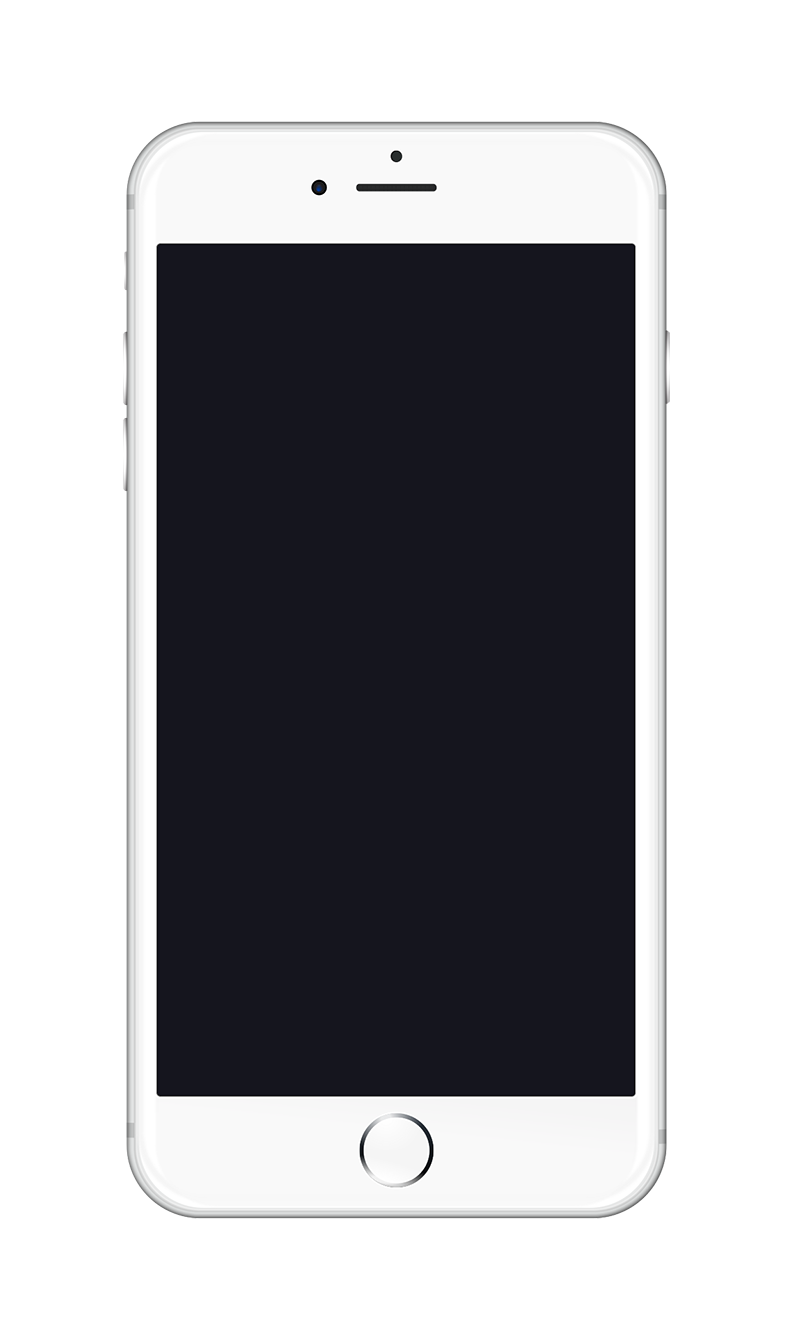
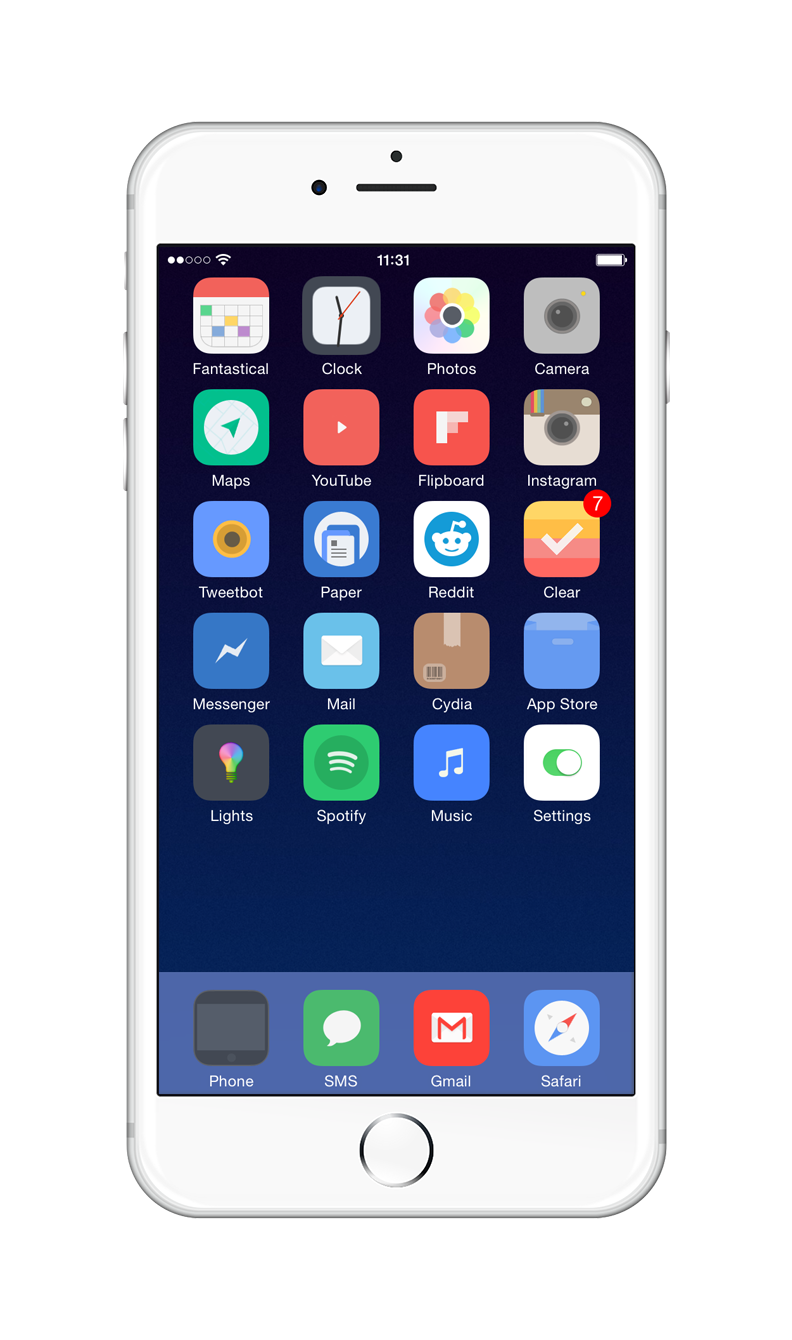
fixed iphone and added toggle for save

diff --git a/src/js/controllers/singleView.controller.js b/src/js/controllers/singleView.controller.js
@@ -13,6 +13,7 @@ function SingleView ($scope, $stateParams, FrameService, $state) {
   vm.blurToggle           = blurToggle;
   vm.loadingSwitch        = false;
   vm.isActive             = false;
+  vm.saveSwitch           = false;
   vm.logo                 = "./images/Blanks/logo.png";
   vm.background           = "./images/Blanks/blankmain.png";
   vm.screenshot           = "./images/Blanks/blankscreen.png";
@@ -78,8 +79,6 @@ function SingleView ($scope, $stateParams, FrameService, $state) {
 
         // Save Image
 
-
-
         function savePic () {
           vm.loadingSwitch = true;
           let reg = domtoimage.toBlob(document.getElementById('imageCont'))
@@ -90,6 +89,7 @@ function SingleView ($scope, $stateParams, FrameService, $state) {
                 vm.image = new_blob.url;
                 console.log(vm.image);
                 vm.loadingSwitch = false;
+                vm.saveSwitch    = true;
                 console.log(vm.loadingSwitch)
                 $scope.$apply();
               })

diff --git a/app/templates/singleView.templ.html b/app/templates/singleView.templ.html
@@ -12,8 +12,8 @@
   <button class="button" ng-click="vm.savePic()">Create Image</button>
   <div ng-show="vm.loadingSwitch">
     <p>Creating Image</p>
-  <img class="loading-image" src="./images/loading.gif">
-</div>
+    <img class="loading-image" src="./images/loading.gif">
+  </div>
 
 </div>
 
@@ -54,10 +54,10 @@
   </div>
 </div>
 
-<div class="box saved-image">
+<div class="box saved-image" ng-show="vm.saveSwitch">
   <button class="button" ng-click="vm.addToFrames(vm.image)">Add to My Frames</button>
   <button class="button" ng-click="vm.saveImage()">Save Image</button>
   <div class="final-image">
     <img ng-src="{{vm.image}}">
-</div>
-<input class="colorpicker" value="{{ myColor }}">
+  </div>
+  <input class="colorpicker" value="{{ myColor }}">

diff --git a/src/sass/main.scss b/src/sass/main.scss
@@ -312,10 +312,11 @@ button.buttonGrid {
 
 .Nexus-5x {
   position: absolute;
-  width: 294px;
-  height: 523px;
-  left: 88px;
-  bottom: 141px;
+  width: 285px;
+  height: 506px;
+  left: 95px;
+  bottom: 147px;
+  border-radius: 1px;
   z-index: 1;
 }
 
